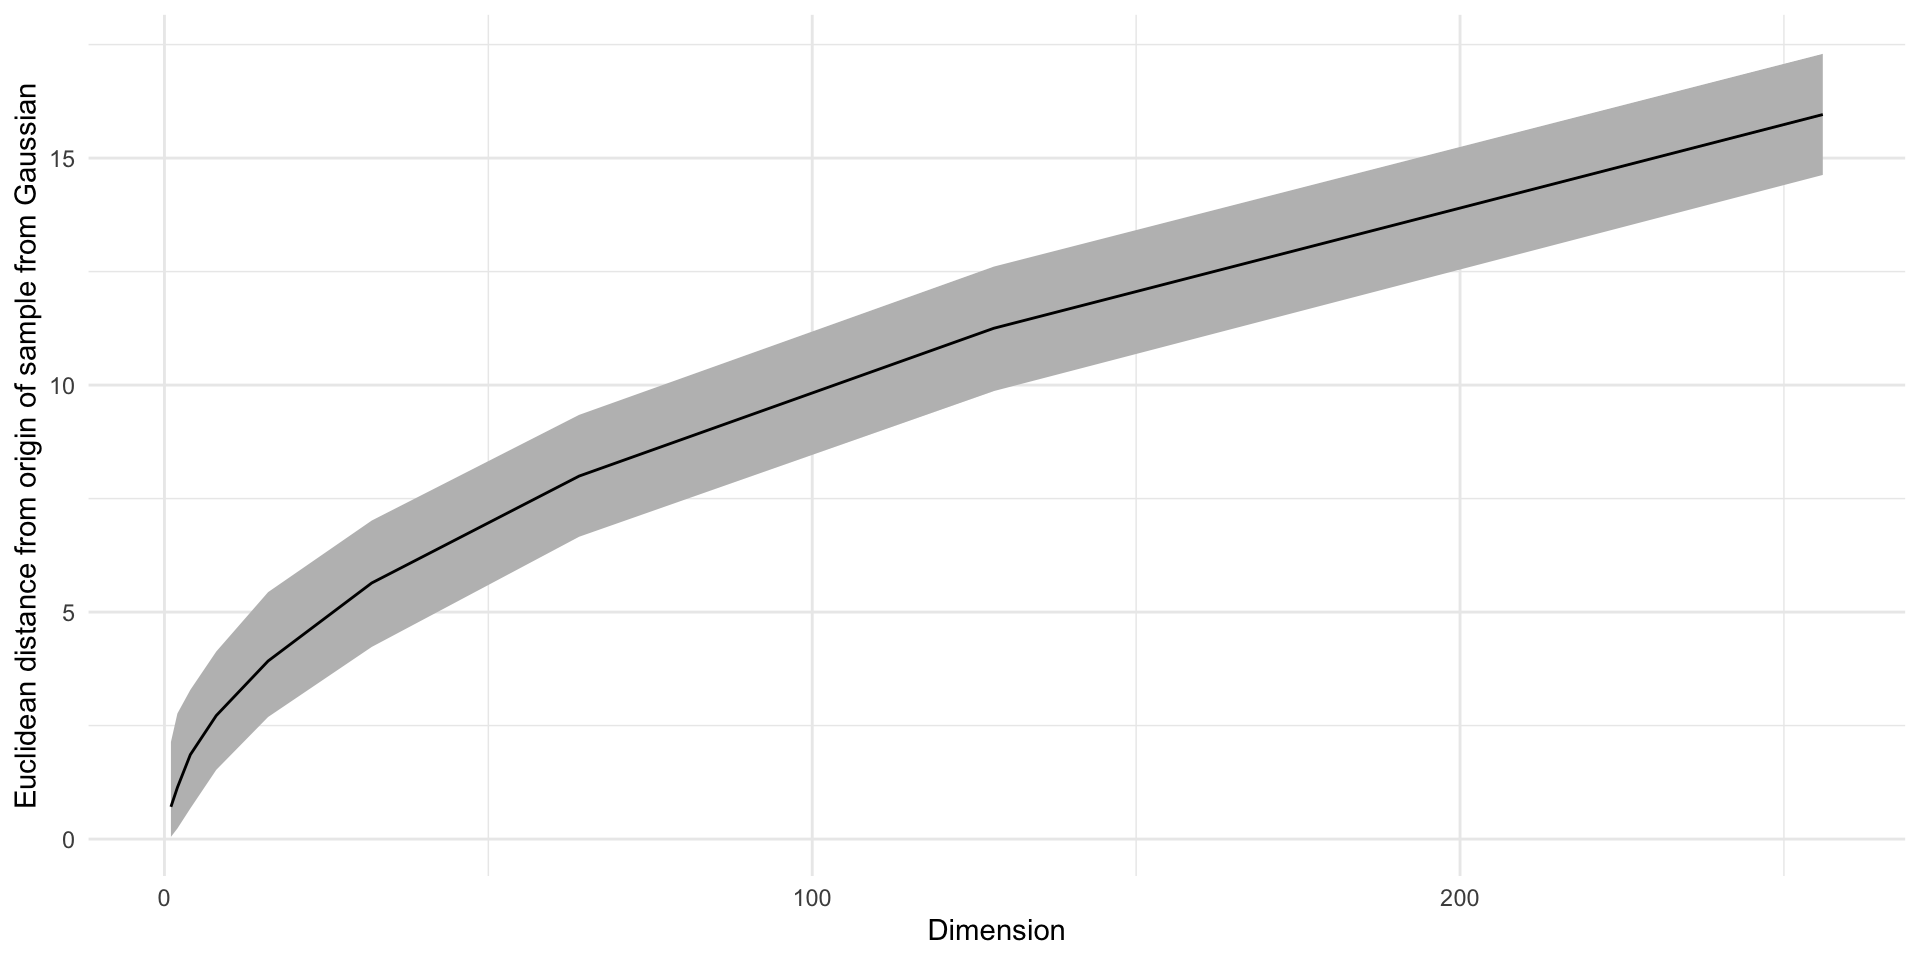
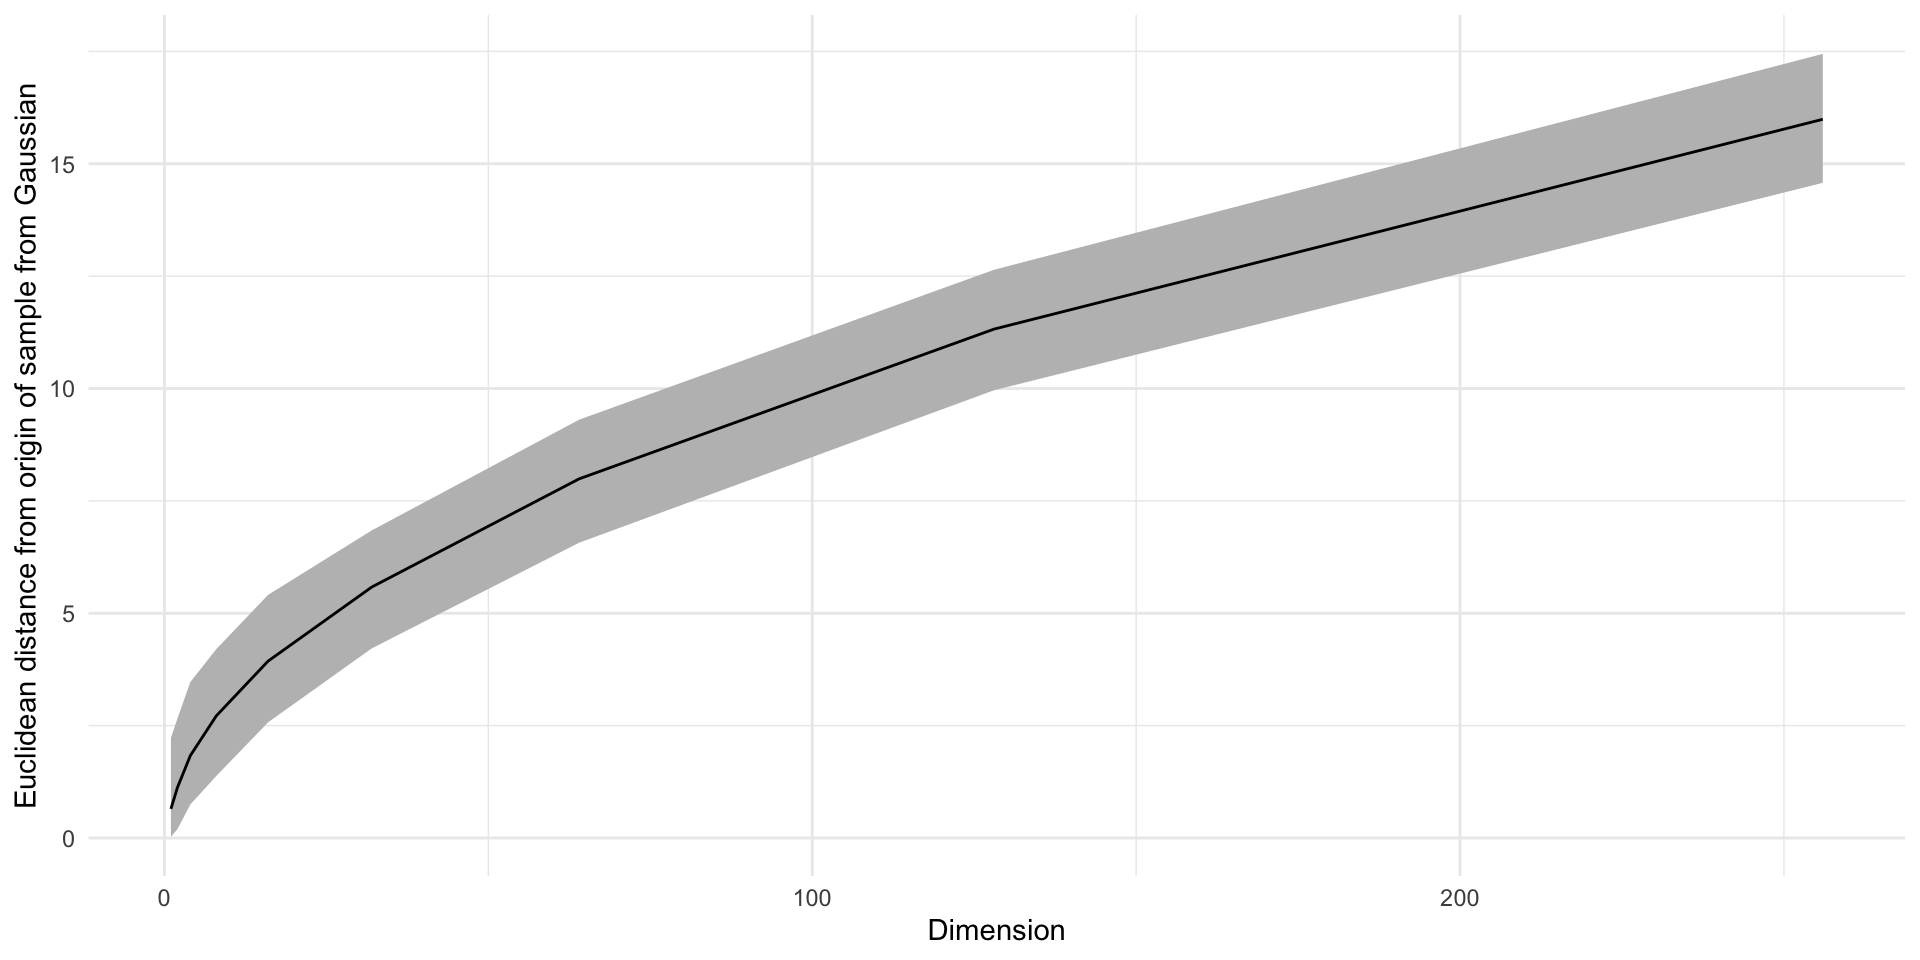
Good Pathfinder progress

diff --git a/pathfinder.html b/pathfinder.html
@@ -409,17 +409,24 @@ Adam Howes
 </section>
 <section id="implementation" class="slide level2">
 <h2>Implementation</h2>
+<p>Focus here on implementation in Stan <span class="citation" data-cites="carpenter2017stan">(<a href="#/bibliography" role="doc-biblioref" onclick="">Carpenter et al. 2017</a>)</span></p>
 <ul>
-<li>Implemented in Stan <span class="citation" data-cites="carpenter2017stan">(<a href="#/bibliography" role="doc-biblioref" onclick="">Carpenter et al. 2017</a>)</span>
-<ul>
-<li>Stan also has Laplace, ADVI, HMC</li>
-</ul></li>
-<li>So can operate to generate initial values for (or stand in for) HMC in existing packages which depend on Stan
-<ul>
-<li><code>EpiNow2</code>, <code>epinowcast</code>, <code>epidist</code>, …</li>
-</ul></li>
-<li>Also implemented in other packages? Julia? Python?</li>
+<li>Stan also has Laplace, ADVI, and HMC</li>
+<li>CFA related work using Stan includes <code>EpiNow2</code>, <code>epinowcast</code>, <code>epidist</code></li>
 </ul>
+<div class="callout callout-note callout-titled callout-style-default">
+<div class="callout-body">
+<div class="callout-title">
+<div class="callout-icon-container">
+<i class="callout-icon"></i>
+</div>
+<p><strong>Note</strong></p>
+</div>
+<div class="callout-content">
+<p>Also implemented in other packages (presumably). Julia? Python? Others better placed to speak to this than me!</p>
+</div>
+</div>
+</div>
 </section>
 <section id="stan-set-up" class="slide level2">
 <h2>Stan set-up</h2>
@@ -452,35 +459,108 @@ Adam Howes
 <li>Generate draws from <span class="math inline">\(\theta^{(m)} \sim \mathcal{N}(\theta \, | \, \mu, \Sigma)\)</span> for <span class="math inline">\(m = 1, \ldots, M\)</span></li>
 <li>Use the draws to compute any relevant quantities (after transforming them back to constrained scale)
 <ul>
-<li>Also some mention of doing importance sampling here as a detail</li>
+<li>Mention of also doing importance sampling here</li>
 </ul></li>
-<li>Key thing is that for “machine learners” VI is typically used more to generate <span class="math inline">\(\hat \theta\)</span></li>
+<li>For “machine learners” VI is typically used to generate <span class="math inline">\(\hat \theta\)</span></li>
 </ul>
 </section>
+<section id="note-on-design-for-initialising-mcmc" class="slide level2">
+<h2>Note on design for initialising MCMC</h2>
+<ul>
+<li>Prefer to be concentrated within the target rather than outside support
+<ul>
+<li>HMC runs slower far outside the support: “stiff”</li>
+</ul></li>
+<li>Goal of pathfinder is to avoid this problem</li>
+</ul>
+<div class="callout callout-note callout-titled callout-style-default">
+<div class="callout-body">
+<div class="callout-title">
+<div class="callout-icon-container">
+<i class="callout-icon"></i>
+</div>
+<p><strong>Note</strong></p>
+</div>
+<div class="callout-content">
+<p>How do goals of “inference” differ from goals of “initialisation”? Coincidence (requiring justification) if they are exactly the same!</p>
+</div>
+</div>
+</div>
+</section>
+<section id="pathfinder-motivation-1" class="slide level2">
+<h2>Pathfinder motivation (1)</h2>
+
+<img data-src="pathfinder_files/figure-revealjs/unnamed-chunk-2-1.png" width="960" class="r-stretch quarto-figure-center"><p class="caption">Samples are usually far from the MAP (more so in high dimensions)!</p></section>
 <section id="section" class="slide level2">
 <h2></h2>
-<p>Good point about initialising MCMC: Prefer to be concentrated within the target rather than outside support. HMC runs slower far outside the support. “Stiff”. Hence: goal of pathfinder is to avoid this problem. Brings up: to what extent do goals of “inference” differ from goals of “initialise”. Seems to be a suprise if they are exactly the same.</p>
-</section>
-<section id="pathfinder-motivation" class="slide level2">
-<h2>Pathfinder motivation</h2>
-<ul>
-<li>Samples are usually far from the MAP (more so in high dimensions)</li>
-<li>Want to take a draw which has around expected log density</li>
-</ul>
 
-<img data-src="pathfinder_files/figure-revealjs/unnamed-chunk-1-1.png" width="960" class="r-stretch"></section>
+<img data-src="pathfinder_files/figure-revealjs/unnamed-chunk-3-1.png" width="960" class="r-stretch"></section>
 <section id="section-1" class="slide level2">
 <h2></h2>
-</section>
-<section id="when-to-use-approximate-methods" class="slide level2">
-<h2>When to use approximate methods?</h2>
 
-<img data-src="converge.png" class="r-stretch quarto-figure-center"><p class="caption">What do we think?</p></section>
+<img data-src="pathfinder_files/figure-revealjs/unnamed-chunk-4-1.png" width="960" class="r-stretch"></section>
+<section id="pathfinder-motivation-2" class="slide level2">
+<h2>Pathfinder motivation (2)</h2>
+<ul>
+<li>Want to take a draw (and or initialise) at around expected log density</li>
+<li>Intermediate value theorem: iterative optimisation algorithm path passes from the tail, through the typical set, and to the mode</li>
+<li>Find a way to do the optimisation, and try to figure out if we’re in the typical set at each point</li>
+</ul>
+</section>
+<section id="first-try-from-bob" class="slide level2">
+<h2>First try from Bob</h2>
+<ul>
+<li>Try to run MCMC chains along each point along optimisation trajectory
+<ul>
+<li>If log density is increasing <span class="math inline">\(\implies\)</span> in the tail</li>
+<li>If log density is going up and down <span class="math inline">\(\implies\)</span> in the typical set</li>
+<li>If log density is decreasing <span class="math inline">\(\implies\)</span> near the mode</li>
+</ul></li>
+<li>Don’t understand what this is aiming to do exactly but suggested it didn’t work due to all the issues with MCMC</li>
+</ul>
+</section>
+<section id="second-try-from-lu" class="slide level2">
+<h2>Second try from Lu</h2>
+<ul>
+<li>Estimate a hyper-elliptical surface containing 90% of the probability mass
+<ul>
+<li>Get volume using Laplace approximation</li>
+<li>Choose points whose density times approximate volume is high</li>
+</ul></li>
+<li>I think in 2D this would be a band. As you move to higher dimensions it’d need to be less wide a band (?)</li>
+</ul>
+</section>
+<section id="third-try-from-lu-and-aki-pathfinder" class="slide level2">
+<h2>Third try from Lu and Aki (Pathfinder!)</h2>
+<ul>
+<li>Run optimiser first (L-BFGS, quasi-Newton)</li>
+<li>Gaussian approximation at each point on the trajectory (using calculations from L-BFGS)</li>
+<li>Sample from the Gaussian approximation with the lowest KL divergence to the posterior</li>
+</ul>
+</section>
 <section id="section-2" class="slide level2">
 <h2></h2>
+
+<img data-src="fig1.png" class="r-stretch quarto-figure-center"><p class="caption">This is a simple example that you don’t really need Pathfinder for. A Laplace approximation would do.</p></section>
+<section id="section-3" class="slide level2">
+<h2></h2>
+
+<img data-src="fig2.png" class="r-stretch quarto-figure-center"><p class="caption">For the funnel example it becomes clearer why Pathfinder might be a good idea. Iteration 6 is better than iteration 13, say. Definitely as an initialisation.</p></section>
+<section id="section-4" class="slide level2">
+<h2></h2>
+
+<img data-src="converge.png" class="r-stretch quarto-figure-center"><p class="caption">When is the right time to use approximate methods, and when is the right time to redesign the model?</p></section>
+<section id="some-of-my-thoughts" class="slide level2">
+<h2>Some of my thoughts</h2>
 <ul>
-<li>Comments about this ^</li>
-<li>Correlated posteriors sample slowly. But perhaps likely to be poorly estimated by VI</li>
+<li>Sometimes it could just be that computation is expensive but the posterior is simple
+<ul>
+<li>Tall data</li>
+</ul></li>
+<li>Correlated posteriors sample slowly
+<ul>
+<li>But perhaps likely to be poorly estimated by VI and Laplace methods too…</li>
+</ul></li>
 </ul>
 </section>
 <section id="comparison-for-epidist" class="slide level2">
